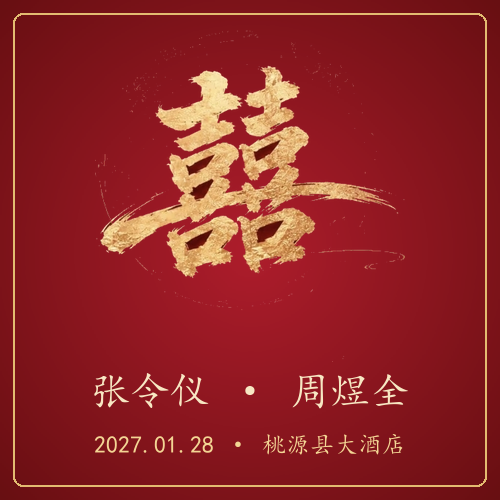
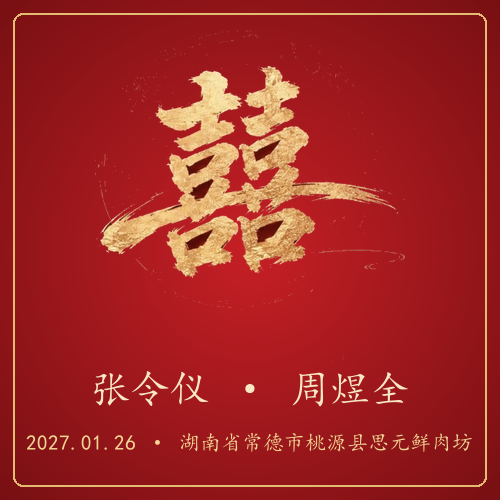
婚期改为1月26日(腊月十九·星期二),地点改为思元鲜肉坊,页面红色调亮

diff --git a/index.html b/index.html
@@ -3,13 +3,13 @@
 <head>
 <meta charset="UTF-8">
 <meta name="viewport" content="width=device-width, initial-scale=1">
-<meta name="theme-color" content="#8E1616">
+<meta name="theme-color" content="#B0181C">
 <title>张令仪 & 周煜全 · 婚礼请柬</title>
 <!-- 微信分享卡片描述:好友点开前能看到这一句 -->
-<meta name="description" content="谨定于二〇二七年一月二十八日,为小女张令仪与女婿周煜全举行结婚典礼,敬备喜宴,恭请光临。">
+<meta name="description" content="谨定于二〇二七年一月二十六日,为小女张令仪与女婿周煜全举行结婚典礼,敬备喜宴,恭请光临。">
 <meta property="og:type" content="website">
 <meta property="og:title" content="张令仪 & 周煜全 · 婚礼请柬">
-<meta property="og:description" content="谨定于2027年1月28日(农历腊月廿一) · 桃源县大酒店 · 敬备喜宴,恭请光临">
+<meta property="og:description" content="谨定于2027年1月26日(农历腊月十九) · 湖南省常德市桃源县思元鲜肉坊 · 敬备喜宴,恭请光临">
 <!-- 微信卡片缩略图:线上地址(已按 GitHub Pages 预填;若换域名请同步修改这两行) -->
 <meta property="og:image" content="https://york1120.github.io/wedding/share.png">
 <meta property="og:url" content="https://york1120.github.io/wedding/index.html">
@@ -48,17 +48,16 @@
 html{-webkit-text-size-adjust:100%}
 body{
   font-family:var(--font-body);
-  background:radial-gradient(ellipse at 50% 0%,#4A0B0D,#2A0607 70%);
+  background:radial-gradient(ellipse at 50% 0%,#5A0F10,#320808 70%);
   color:var(--cream);
   overflow-x:hidden;
 }
 body.locked{overflow:hidden}
 .page{
   max-width:520px;margin:0 auto;
-  background:linear-gradient(180deg,#A21C1C 0%,#8E1616 40%,#6E1013 100%);
   box-shadow:0 0 70px rgba(0,0,0,.6);
-  background-image:radial-gradient(rgba(242,209,139,.05) 1px,transparent 1.6px);
-  background-size:22px 22px;
+  background-image:radial-gradient(rgba(242,209,139,.06) 1px,transparent 1.6px),linear-gradient(180deg,#CB2222 0%,#B5181C 40%,#901216 100%);
+  background-size:22px 22px,100% 100%;
 }
 section{padding:58px 26px;position:relative}
 
@@ -68,7 +67,7 @@ section{padding:58px 26px;position:relative}
 .lantern .string{width:1.5px;height:64px;margin:0 auto;background:linear-gradient(180deg,transparent,var(--gold));opacity:.8}
 .lantern .cap{width:20px;height:7px;margin:0 auto;border-radius:2px;background:linear-gradient(180deg,var(--gold-bright),#B07E2C)}
 .lantern .body{width:56px;height:46px;border-radius:50% 50% 50% 50%/44% 44% 56% 56%;position:relative;overflow:hidden;
-  background:radial-gradient(ellipse at 50% 38%,#D2463A,#8E1616 72%);
+  background:radial-gradient(ellipse at 50% 38%,#DC5240,#A81717 72%);
   border:2px solid var(--gold);box-shadow:0 6px 18px rgba(0,0,0,.4),inset 0 -6px 14px rgba(0,0,0,.3)}
 .lantern .rib{position:absolute;inset:0;border-radius:inherit;
   background:repeating-linear-gradient(90deg,transparent 0 11px,rgba(217,164,65,.4) 11px 13px)}
@@ -91,7 +90,7 @@ section{padding:58px 26px;position:relative}
 /* ── 封面(点击开启)────────────────── */
 #cover{
   position:fixed;inset:0;z-index:50;cursor:pointer;
-  background:radial-gradient(ellipse at 50% 30%,#A61B29,#5C0D10 78%);
+  background:radial-gradient(ellipse at 50% 30%,#C4272F,#6E0F12 78%);
   display:flex;align-items:center;justify-content:center;
   transition:opacity .8s ease .15s,visibility 0s linear 1.1s;
 }
@@ -105,7 +104,7 @@ section{padding:58px 26px;position:relative}
   width:128px;height:128px;border-radius:50%;margin:0 auto;cursor:pointer;
   display:flex;align-items:center;justify-content:center;
   font-family:var(--font-display);font-size:68px;color:var(--gold-bright);
-  background:radial-gradient(circle at 35% 30%,#B5322A,#751115 78%);
+  background:radial-gradient(circle at 35% 30%,#C5372C,#821114 78%);
   border:3px solid var(--gold);
   box-shadow:0 0 0 7px rgba(217,164,65,.14),0 12px 34px rgba(0,0,0,.45),inset 0 0 20px rgba(0,0,0,.35);
   animation:pulse 2.4s ease-in-out infinite;position:relative;
@@ -155,7 +154,7 @@ section{padding:58px 26px;position:relative}
 .vscroll .em{color:var(--gold-light)}
 .vscroll .name{font-family:var(--font-display);font-size:1.72em;line-height:1.1;letter-spacing:.12em;color:var(--gold-bright);text-shadow:0 0 14px rgba(247,224,139,.3)}
 .stamps{display:flex;gap:16px;margin-top:22px;padding-left:8px}
-.stamp{writing-mode:vertical-rl;font-family:var(--font-display);font-size:14px;letter-spacing:.3em;color:var(--gold-light);background:linear-gradient(160deg,#B5322A,#7E1113);border:1.5px solid rgba(242,209,139,.75);border-radius:6px;padding:12px 7px;box-shadow:0 4px 12px rgba(0,0,0,.3)}
+.stamp{writing-mode:vertical-rl;font-family:var(--font-display);font-size:14px;letter-spacing:.3em;color:var(--gold-light);background:linear-gradient(160deg,#C0342C,#8F1214);border:1.5px solid rgba(242,209,139,.75);border-radius:6px;padding:12px 7px;box-shadow:0 4px 12px rgba(0,0,0,.3)}
 .stamp:first-child{transform:rotate(-3deg)}
 .stamp:last-child{transform:rotate(3deg);margin-top:16px}
 
@@ -258,7 +257,7 @@ section{padding:58px 26px;position:relative}
     <div class="cover-tag">于 归 之 喜</div>
     <div class="seal" id="seal"><img src="xi.png" alt="囍"></div>
     <div class="cover-names">张令仪 · 周煜全</div>
-    <div class="cover-date">2027.01.28 · 桃源县大酒店</div>
+    <div class="cover-date">2027.01.26 · 思元鲜肉坊</div>
     <div class="cover-hint">— 轻触囍印 · 开启喜帖 —</div>
   </div>
 </div>
@@ -281,7 +280,7 @@ section{padding:58px 26px;position:relative}
     <div class="hero-fu"><img src="xi.png" alt="囍"></div>
     <div class="hero-names"><span>张令仪</span><span class="amp"><img src="xi.png" alt="囍"></span><span>周煜全</span></div>
     <div class="hero-sub">于归之喜</div>
-    <div class="hero-date">2027 · 01 · 28</div>
+    <div class="hero-date">2027 · 01 · 26</div>
     <div class="scroll-cue"><i></i>上滑查看喜帖</div>
   </section>
 
@@ -293,8 +292,8 @@ section{padding:58px 26px;position:relative}
         <!-- 「宾客称呼」改成实际称呼,如:王伯父 / 李阿姨 / 各位亲友 -->
         <p class="guest">送呈〔宾客称呼〕台启</p>
         <p>谨定于</p>
-        <p>公历<span class="em">二〇二七年</span>一月二十八日</p>
-        <p>农历丙午年腊月廿一 · 星期四</p>
+        <p>公历<span class="em">二〇二七年</span>一月二十六日</p>
+        <p>农历丙午年腊月十九 · 星期二</p>
         <p>为小女<span class="name">张令仪</span></p>
         <p>与女婿<span class="name">周煜全</span></p>
         <p>举行结婚典礼</p>
@@ -356,16 +355,17 @@ section{padding:58px 26px;position:relative}
       <div id="cal-grid"></div>
     </div>
     <div class="info-list">
-      <div class="info-row"><span class="k">婚期</span><span class="v hl">2027年1月28日</span></div>
-      <div class="info-row"><span class="k">星期</span><span class="v">星期四</span></div>
-      <div class="info-row"><span class="k">农历</span><span class="v">丙午年腊月廿一</span></div>
+      <div class="info-row"><span class="k">婚期</span><span class="v hl">2027年1月26日</span></div>
+      <div class="info-row"><span class="k">星期</span><span class="v">星期二</span></div>
+      <div class="info-row"><span class="k">农历</span><span class="v">丙午年腊月十九</span></div>
       <!-- 「恭候」一行可改成具体时刻,如:恭候 11:00 · 开席 11:58 -->
       <div class="info-row"><span class="k">恭候</span><span class="v">午间吉时(可补充具体时刻)</span></div>
-      <div class="info-row"><span class="k">席设</span><span class="v hl">桃源县大酒店</span></div>
+      <div class="info-row"><span class="k">席设</span><span class="v hl">思元鲜肉坊</span></div>
+      <div class="info-row"><span class="k">地址</span><span class="v">湖南省常德市桃源县</span></div>
     </div>
     <div class="nav-btns">
-      <a class="btn-nav" href="https://uri.amap.com/search?keyword=桃源县大酒店" target="_blank" rel="noopener">高德导航</a>
-      <a class="btn-nav" href="https://map.baidu.com/search/桃源县大酒店" target="_blank" rel="noopener">百度地图</a>
+      <a class="btn-nav" href="https://uri.amap.com/search?keyword=常德市桃源县思元鲜肉坊" target="_blank" rel="noopener">高德导航</a>
+      <a class="btn-nav" href="https://map.baidu.com/search/常德市桃源县思元鲜肉坊" target="_blank" rel="noopener">百度地图</a>
     </div>
   </section>
 
@@ -376,7 +376,7 @@ section{padding:58px 26px;position:relative}
     <!-- 落款:建议改成父亲姓名,如「张建国 暨全家 敬邀」 -->
     <p class="sign-name">张府 敬邀</p>
     <p class="sign-sub">恭候台驾 · 阖府光临</p>
-    <p class="foot-date">二〇二七年一月二十八日 · 桃源县大酒店</p>
+    <p class="foot-date">二〇二七年一月二十六日 · 湖南省常德市桃源县思元鲜肉坊</p>
   </section>
 
 </main>
@@ -408,7 +408,7 @@ if ('IntersectionObserver' in window){
 }
 
 /* 倒计时 */
-const target = new Date(2027, 0, 28);
+const target = new Date(2027, 0, 26);
 const days = Math.max(0, Math.ceil((target - new Date()) / 864e5));
 document.getElementById('cd').textContent = days;
 
@@ -418,7 +418,7 @@ document.getElementById('cd').textContent = days;
   let html = ['一','二','三','四','五','六','日'].map(h=>'<span class="cal-h">'+h+'</span>').join('');
   const offset = (new Date(2027,0,1).getDay() + 6) % 7;  /* 周一开头 */
   for(let i=0;i<offset;i++) html += '<span></span>';
-  for(let d=1;d<=31;d++) html += '<span class="cal-d'+(d===28?' today':'')+'">'+d+'</span>';
+  for(let d=1;d<=31;d++) html += '<span class="cal-d'+(d===26?' today':'')+'">'+d+'</span>';
   grid.innerHTML = html;
 })();
 
